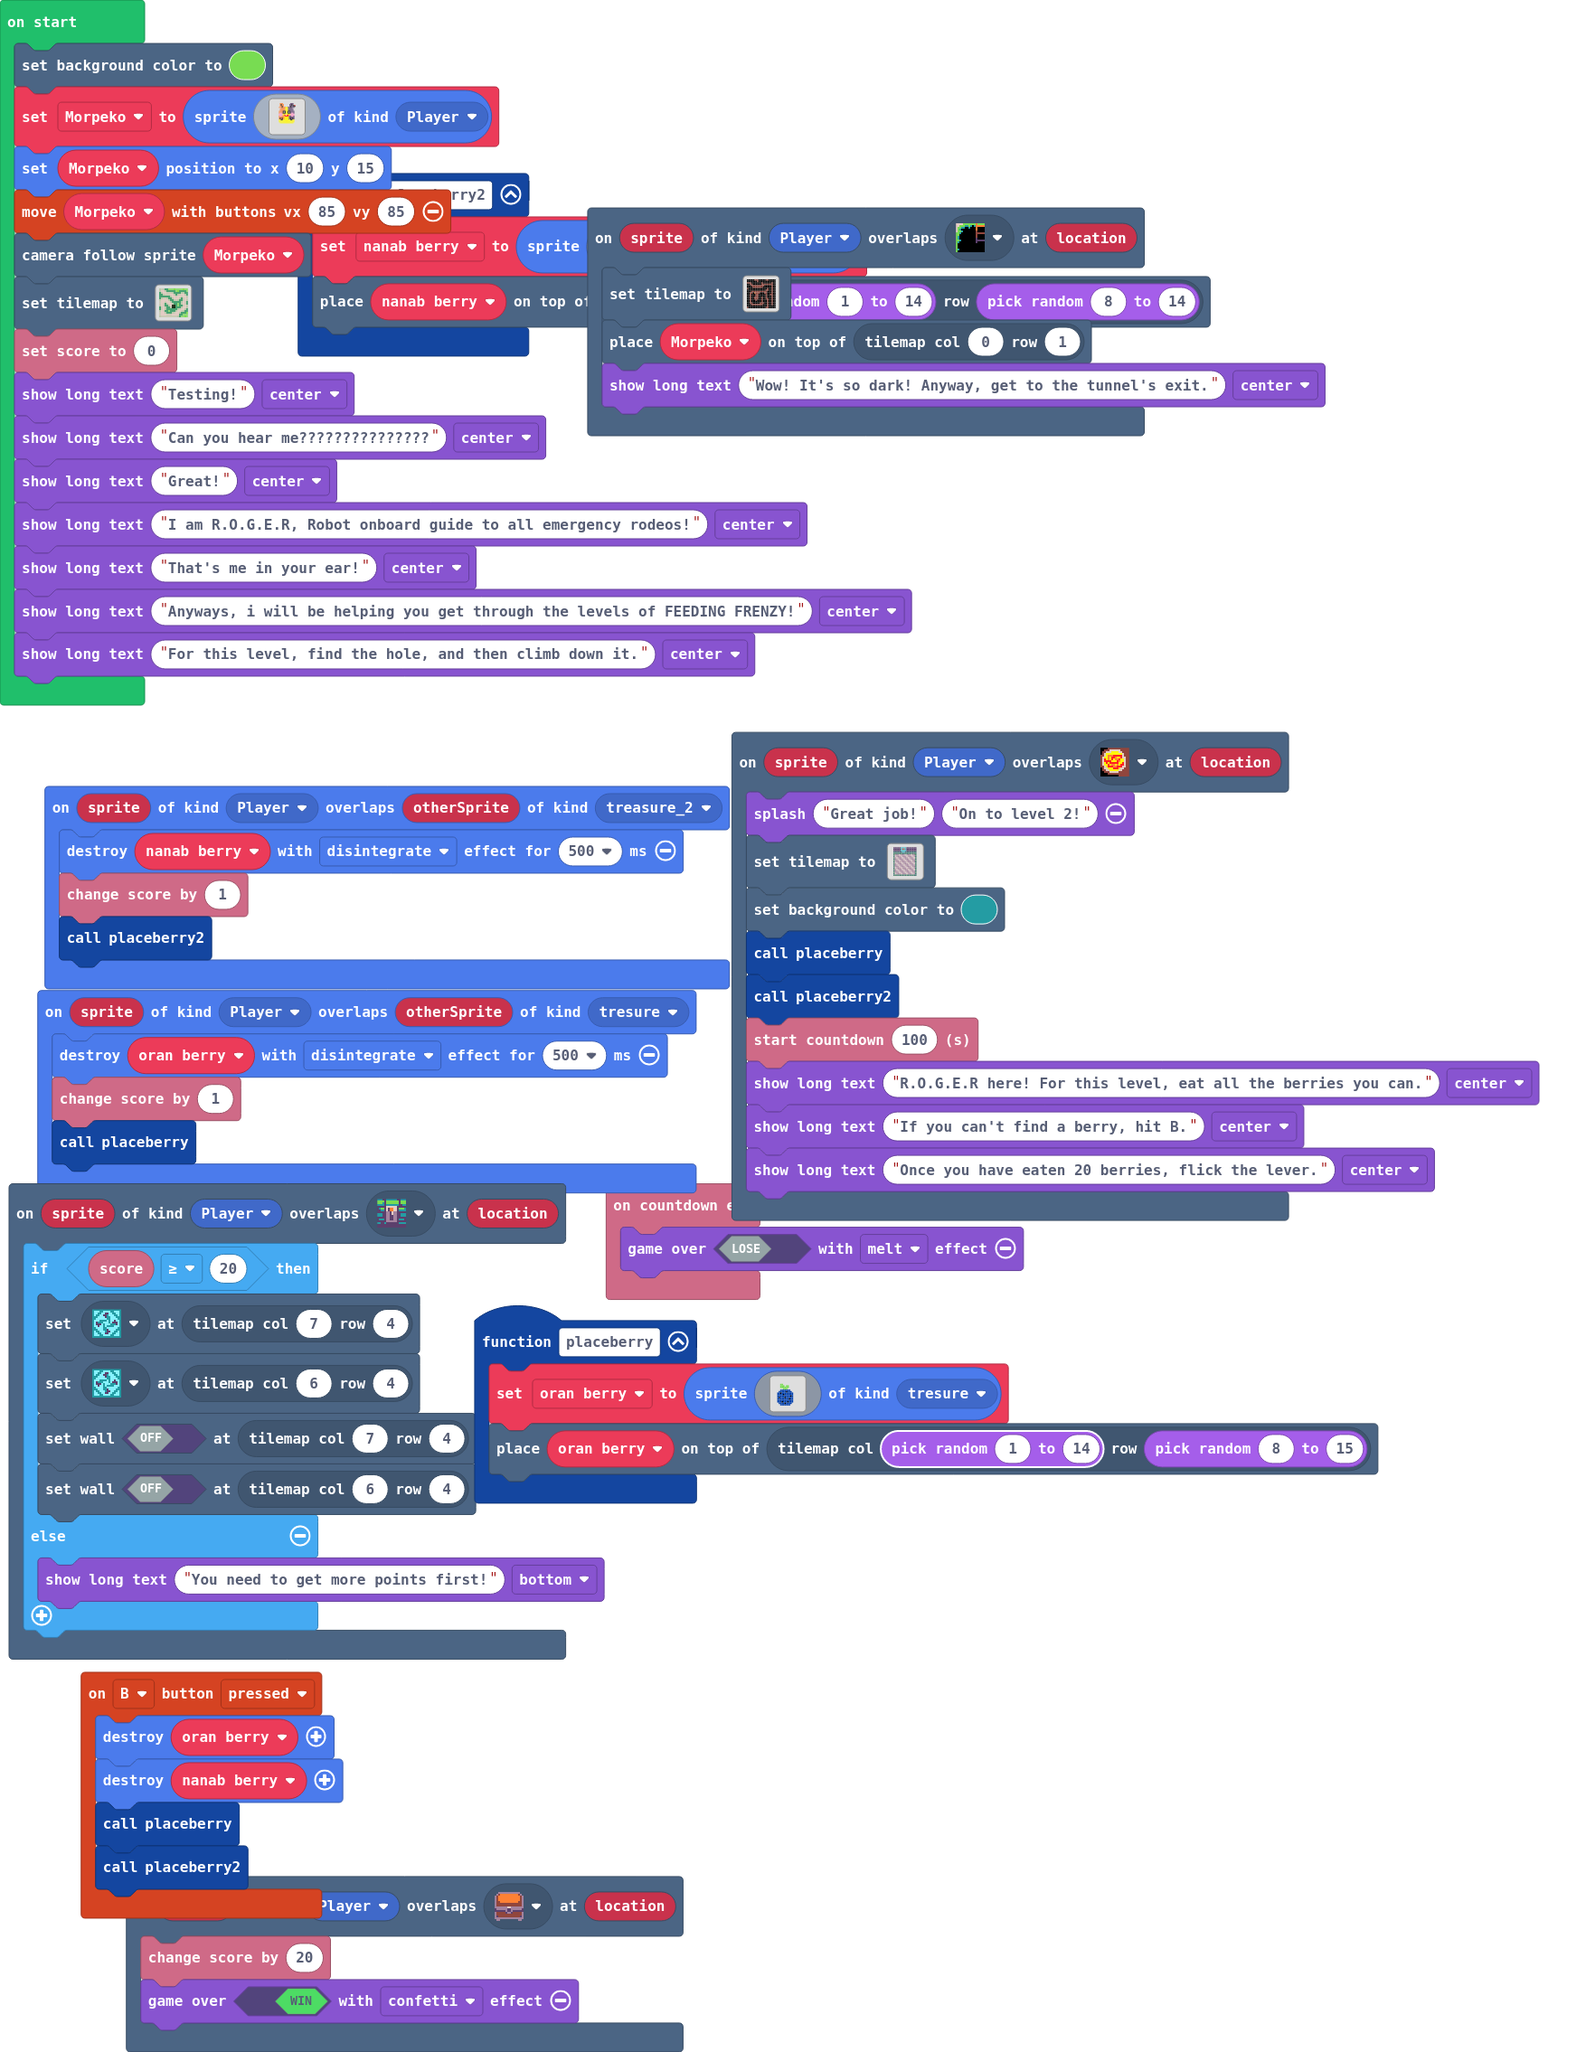
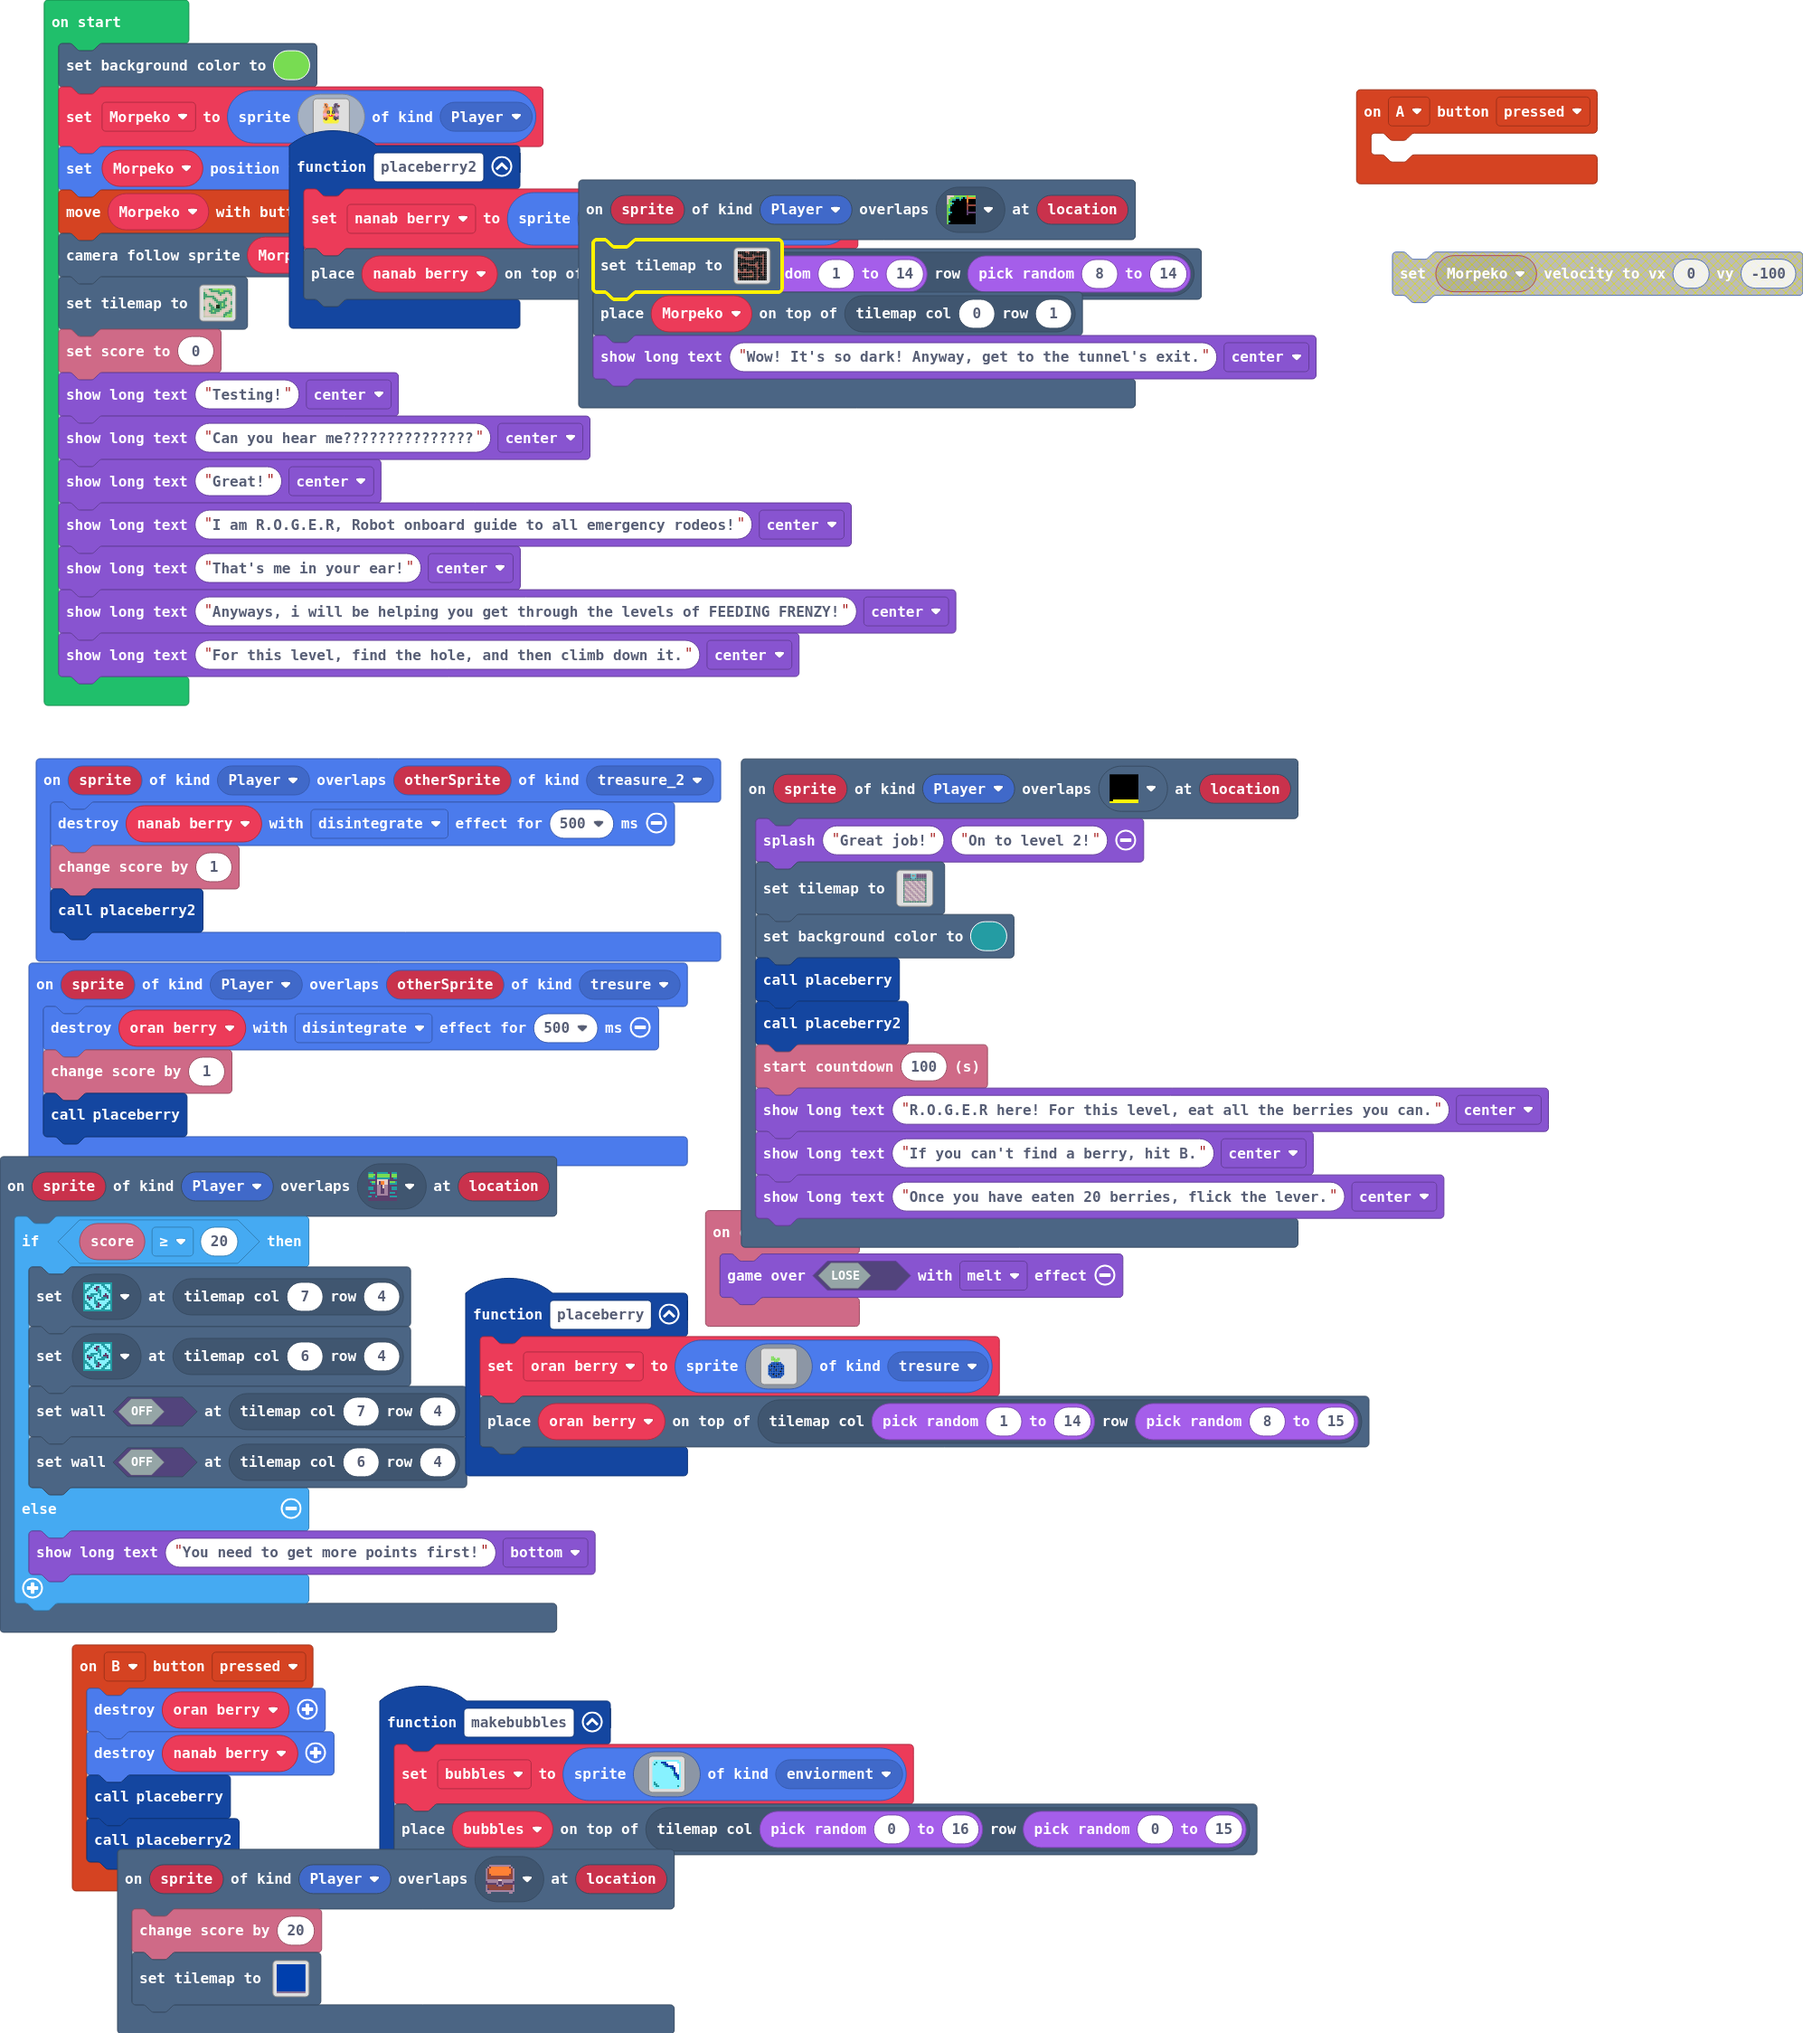
tunnel take two

diff --git a/tilemap.g.ts b/tilemap.g.ts
@@ -13,11 +13,25 @@ namespace myTiles {
     //% fixedInstance jres blockIdentity=images._tile
     export const tile9 = image.ofBuffer(hex``);
     //% fixedInstance jres blockIdentity=images._tile
-    export const tile4 = image.ofBuffer(hex``);
-    //% fixedInstance jres blockIdentity=images._tile
     export const tile3 = image.ofBuffer(hex``);
     //% fixedInstance jres blockIdentity=images._tile
     export const tile6 = image.ofBuffer(hex``);
+    //% fixedInstance jres blockIdentity=images._tile
+    export const tile7 = image.ofBuffer(hex``);
+    //% fixedInstance jres blockIdentity=images._tile
+    export const tile4 = image.ofBuffer(hex``);
+    //% fixedInstance jres blockIdentity=images._tile
+    export const tile10 = image.ofBuffer(hex``);
+    //% fixedInstance jres blockIdentity=images._tile
+    export const tile11 = image.ofBuffer(hex``);
+    //% fixedInstance jres blockIdentity=images._tile
+    export const tile12 = image.ofBuffer(hex``);
+    //% fixedInstance jres blockIdentity=images._tile
+    export const tile13 = image.ofBuffer(hex``);
+    //% fixedInstance jres blockIdentity=images._tile
+    export const tile14 = image.ofBuffer(hex``);
+    //% fixedInstance jres blockIdentity=images._tile
+    export const tile15 = image.ofBuffer(hex``);
 
     helpers._registerFactory("tilemap", function(name: string) {
         switch(helpers.stringTrim(name)) {
@@ -101,6 +115,44 @@ namespace myTiles {
 . . . . . . . . . . . . . . . . 
 . . . . . . . . . . . . . . . . 
 `, [myTiles.transparency16], TileScale.Sixteen);
+            case "level7":
+            case "level7":return tiles.createTilemap(hex`1000100000000000000000000000000000000000000000000000000000000000000000000000000000000000000000000000000000000000000000000000000000000000000000000000000000000000000000000000000000000000000000000000000000000000000000000000000000000000000000000000000000000000000000000000000000000000000000000000000000000000000000000000000000000000000000000000000000000000000000000000000000000000000000000000000000000000000000000000000000000000000000000000000000000000000000000000000000000000000000000000000000000000000000000000000000000000`, img`
+. . . . . . . . . . . . . . . . 
+. . . . . . . . . . . . . . . . 
+. . . . . . . . . . . . . . . . 
+. . . . . . . . . . . . . . . . 
+. . . . . . . . . . . . . . . . 
+. . . . . . . . . . . . . . . . 
+. . . . . . . . . . . . . . . . 
+. . . . . . . . . . . . . . . . 
+. . . . . . . . . . . . . . . . 
+. . . . . . . . . . . . . . . . 
+. . . . . . . . . . . . . . . . 
+. . . . . . . . . . . . . . . . 
+. . . . . . . . . . . . . . . . 
+. . . . . . . . . . . . . . . . 
+. . . . . . . . . . . . . . . . 
+. . . . . . . . . . . . . . . . 
+`, [myTiles.transparency16], TileScale.Sixteen);
+            case "level6":
+            case "level6":return tiles.createTilemap(hex`1000100004040404040404040404040404040404040404040404040404040404040404040404040404040404040404040404040404040404040404040404040404040404040404040404040404040404040404040404040404040404040404040404040404040404040404040404040404040404040404040404040404040404040404040404040404040404040404040404040404040404040404040404040404040404040404040404040404040404040404040404040404040404040404040404040404040404040404040404040404040404040404040404040404040404040404040404040404040404040404040404040401020302010203030102030203020101`, img`
+. . . . . . . . . . . . . . . . 
+. . . . . . . . . . . . . . . . 
+. . . . . . . . . . . . . . . . 
+. . . . . . . . . . . . . . . . 
+. . . . . . . . . . . . . . . . 
+. . . . . . . . . . . . . . . . 
+. . . . . . . . . . . . . . . . 
+. . . . . . . . . . . . . . . . 
+. . . . . . . . . . . . . . . . 
+. . . . . . . . . . . . . . . . 
+. . . . . . . . . . . . . . . . 
+. . . . . . . . . . . . . . . . 
+. . . . . . . . . . . . . . . . 
+. . . . . . . . . . . . . . . . 
+. . . . . . . . . . . . . . . . 
+2 2 2 2 2 2 2 2 2 2 2 2 2 2 2 2 
+`, [myTiles.transparency16,sprites.builtin.coral0,sprites.builtin.coral1,sprites.builtin.coral2,myTiles.tile7], TileScale.Sixteen);
             case "level3":
             case "level3":return tiles.createTilemap(hex`1400140002020202020101010202020202010102020202020202020202020201020202020202020202020202010101020202020202020102020202020201020202020101020202020202010101010101010102020202020101010101010101010202020202010202020202020101010101010102020202020201020201020202020202020202020202020102020102020202020202020202020202020201010202010202020202010101010101010101010102020201020202020101020301010102020201010202020102020202010202020101020202020201020201010202020201020202010102020202020102020201020202020102020101010202010202010202020102020202010202010101020201020201010202010202020201020202010202020102020201020201020202020102020202020202010202020102020102020202010102020202020101010202010202010202020202010101010101010102020201020201020202020202020202020202020202020102020202020102020202020202020202020201010202020202`, img`
 .....222.....22.....
@@ -124,6 +176,29 @@ namespace myTiles {
 ..............2.....
 2............22.....
 `, [myTiles.transparency16,myTiles.tile3,myTiles.tile4,myTiles.tile6], TileScale.Sixteen);
+            case "level8":
+            case "level8":return tiles.createTilemap(hex`1400140003030303030101010303030303010103030303030303030303030301030303030303030303030303010101030303030303030103030303030301030301010101030303030303010101010101010103030303010101010101010101010303030303010303030303030301010101010103030303030301030303030303030303030303030303030303030103030303030303030303030303030301030303010303030301010101010103030303010103030101030303030103030303010101010101010303030103030303030303030303030303030101030303010303030303030303030303030303030101030301030301030303010103030303030303010303030103030101030301010303010103030301030303010303010101010101010101010103030103030101030303030303030303030303010303010303030103030303030303030303020601030301030303010303030303010101010104050103030101030303030301030303030303030303030303010303030303030103030303030303030303030301030303030303`, img`
+.....222.....22.....
+.......2............
+222.......2......2..
+2222......22222222..
+..2222222222.....2..
+.....222222......2..
+.................2..
+.............2...2..
+..222222....22..22..
+..2....2222222...2..
+............22...2..
+.............22..2..
+2...22.......2...2..
+22..22..22...2...2..
+22222222222..2..22..
+..........2..2...2..
+..........2..2...2..
+...22222222..22..2..
+2............2......
+2............2......
+`, [myTiles.transparency16,myTiles.tile3,myTiles.tile4,myTiles.tile12,myTiles.tile13,myTiles.tile14,myTiles.tile15], TileScale.Sixteen);
         }
         return null;
     })
@@ -141,12 +216,26 @@ namespace myTiles {
             case "tile8":return tile8;
             case "myTile7":
             case "tile9":return tile9;
-            case "myTile2":
-            case "tile4":return tile4;
             case "myTile1":
             case "tile3":return tile3;
             case "myTile4":
             case "tile6":return tile6;
+            case "myTile5":
+            case "tile7":return tile7;
+            case "myTile2":
+            case "tile4":return tile4;
+            case "myTile8":
+            case "tile10":return tile10;
+            case "myTile9":
+            case "tile11":return tile11;
+            case "myTile10":
+            case "tile12":return tile12;
+            case "myTile11":
+            case "tile13":return tile13;
+            case "myTile12":
+            case "tile14":return tile14;
+            case "myTile13":
+            case "tile15":return tile15;
         }
         return null;
     })

diff --git a/main.ts b/main.ts
@@ -1,9 +1,10 @@
 namespace SpriteKind {
     export const tresure = SpriteKind.create()
     export const treasure_2 = SpriteKind.create()
+    export const enviorment = SpriteKind.create()
 }
 scene.onOverlapTile(SpriteKind.Player, assets.tile`myTile0`, function (sprite, location) {
-    tiles.setTilemap(tilemap`level3`)
+    tiles.setTilemap(tilemap`level8`)
     tiles.placeOnTile(Morpeko, tiles.getTileLocation(0, 1))
     game.showLongText("Wow! It's so dark! Anyway, get to the tunnel's exit.", DialogLayout.Center)
 })
@@ -12,6 +13,9 @@ controller.B.onEvent(ControllerButtonEvent.Pressed, function () {
     nanab_berry.destroy()
     placeberry()
     placeberry2()
+})
+controller.A.onEvent(ControllerButtonEvent.Pressed, function () {
+	
 })
 scene.onOverlapTile(SpriteKind.Player, sprites.dungeon.greenSwitchUp, function (sprite, location) {
     if (info.score() >= 20) {
@@ -27,17 +31,6 @@ sprites.onOverlap(SpriteKind.Player, SpriteKind.tresure, function (sprite, other
     oran_berry.destroy(effects.disintegrate, 500)
     info.changeScoreBy(1)
     placeberry()
-})
-scene.onOverlapTile(SpriteKind.Player, assets.tile`myTile4`, function (sprite, location) {
-    game.splash("Great job!", "On to level 2!")
-    tiles.setTilemap(tilemap`level2`)
-    scene.setBackgroundColor(6)
-    placeberry()
-    placeberry2()
-    info.startCountdown(100)
-    game.showLongText("R.O.G.E.R here! For this level, eat all the berries you can.", DialogLayout.Center)
-    game.showLongText("If you can't find a berry, hit B.", DialogLayout.Center)
-    game.showLongText("Once you have eaten 20 berries, flick the lever.", DialogLayout.Center)
 })
 function placeberry2 () {
     nanab_berry = sprites.create(img`
@@ -69,12 +62,33 @@ function placeberry2 () {
         `, SpriteKind.treasure_2)
     tiles.placeOnTile(nanab_berry, tiles.getTileLocation(randint(1, 14), randint(8, 14)))
 }
+function makebubbles () {
+    bubbles = sprites.create(img`
+        . 9 9 9 9 9 9 9 9 9 9 9 9 9 9 . 
+        9 9 6 9 9 8 8 8 1 1 1 1 1 1 9 9 
+        9 6 9 9 9 9 6 8 8 1 1 1 1 1 1 9 
+        9 9 9 9 9 9 9 6 8 8 8 8 1 1 1 9 
+        9 9 9 9 9 9 9 9 9 9 6 8 8 1 1 9 
+        9 9 9 9 9 9 9 9 9 9 9 6 8 1 1 9 
+        9 9 9 9 9 9 9 9 9 9 9 9 8 1 1 9 
+        9 9 9 9 9 9 9 9 9 9 9 9 8 8 1 9 
+        9 9 9 9 9 9 9 9 9 9 9 9 6 8 8 9 
+        9 9 9 9 9 9 9 9 9 9 9 9 9 6 8 9 
+        9 9 9 9 9 9 9 9 9 9 9 9 9 9 8 9 
+        9 9 9 9 9 9 9 9 9 9 9 9 9 9 9 9 
+        9 6 9 9 9 9 9 9 9 9 9 9 9 9 9 9 
+        9 6 6 9 9 9 9 9 9 9 9 9 9 9 9 9 
+        9 9 6 6 9 9 9 9 9 9 9 9 9 9 6 9 
+        . 9 9 9 9 9 9 9 9 9 9 9 9 9 9 . 
+        `, SpriteKind.enviorment)
+    tiles.placeOnTile(bubbles, tiles.getTileLocation(randint(0, 16), randint(0, 15)))
+}
 info.onCountdownEnd(function () {
     game.over(false, effects.melt)
 })
 scene.onOverlapTile(SpriteKind.Player, sprites.dungeon.chestClosed, function (sprite, location) {
     info.changeScoreBy(20)
-    game.over(true, effects.confetti)
+    tiles.setTilemap(tilemap`level6`)
 })
 function placeberry () {
     oran_berry = sprites.create(img`
@@ -101,11 +115,23 @@ function placeberry () {
         `, SpriteKind.tresure)
     tiles.placeOnTile(oran_berry, tiles.getTileLocation(randint(1, 14), randint(8, 15)))
 }
+scene.onOverlapTile(SpriteKind.Player, assets.tile`myTile2`, function (sprite, location) {
+    game.splash("Great job!", "On to level 2!")
+    tiles.setTilemap(tilemap`level2`)
+    scene.setBackgroundColor(6)
+    placeberry()
+    placeberry2()
+    info.startCountdown(100)
+    game.showLongText("R.O.G.E.R here! For this level, eat all the berries you can.", DialogLayout.Center)
+    game.showLongText("If you can't find a berry, hit B.", DialogLayout.Center)
+    game.showLongText("Once you have eaten 20 berries, flick the lever.", DialogLayout.Center)
+})
 sprites.onOverlap(SpriteKind.Player, SpriteKind.treasure_2, function (sprite, otherSprite) {
     nanab_berry.destroy(effects.disintegrate, 500)
     info.changeScoreBy(1)
     placeberry2()
 })
+let bubbles: Sprite = null
 let nanab_berry: Sprite = null
 let oran_berry: Sprite = null
 let Morpeko: Sprite = null
